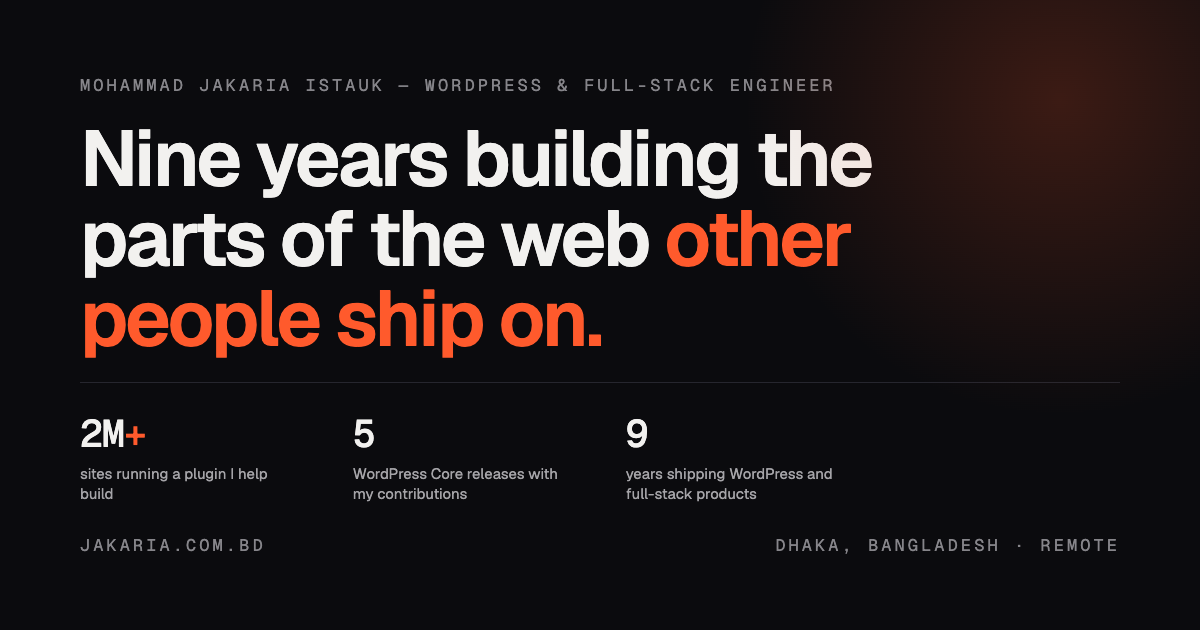
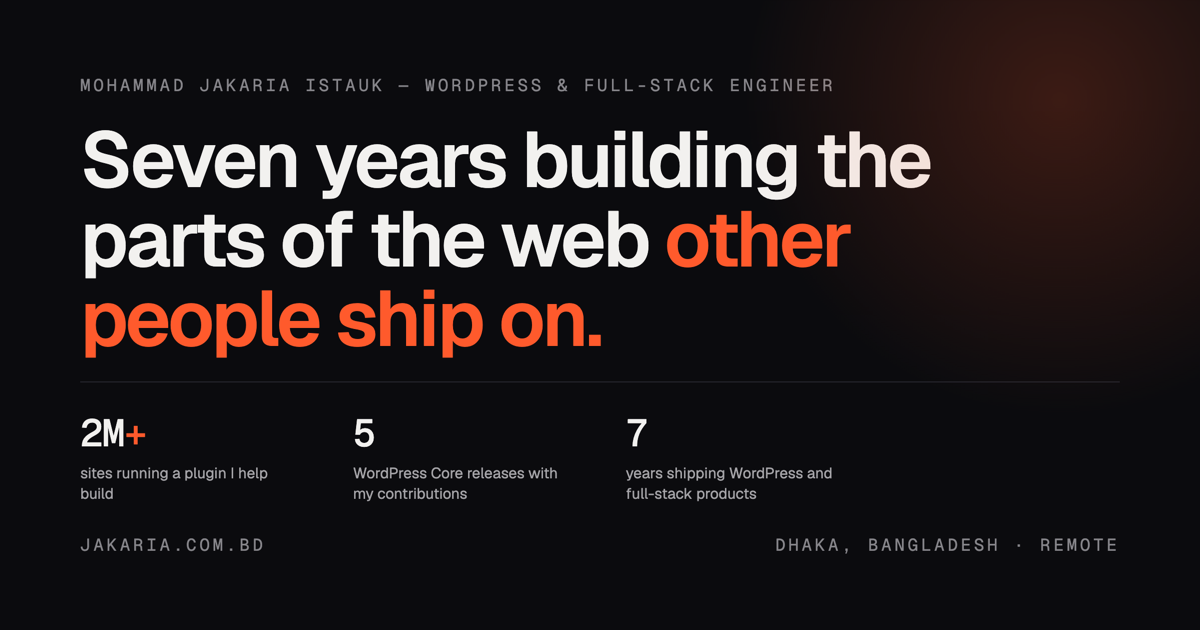
fix(portfolio): regenerate the social card for seven years
The card is a screenshot of scripts/og-card.html, so the nine-year
headline and the 9 figure survived the rest of the correction as pixels
the build cannot reach. Source fixed, card re-shot at 1200x630.

diff --git a/scripts/og-card.html b/scripts/og-card.html
@@ -80,7 +80,7 @@
 
     <div class="label">Mohammad Jakaria Istauk — WordPress &amp; Full-Stack Engineer</div>
 
-    <h1>Nine years building the parts of the web <em>other people ship on.</em></h1>
+    <h1>Seven years building the parts of the web <em>other people ship on.</em></h1>
 
     <div>
       <div class="figures">
@@ -93,7 +93,7 @@
           <div class="figure__label">WordPress Core releases with my contributions</div>
         </div>
         <div>
-          <div class="figure__value">9</div>
+          <div class="figure__value">7</div>
           <div class="figure__label">years shipping WordPress and full-stack products</div>
         </div>
       </div>
